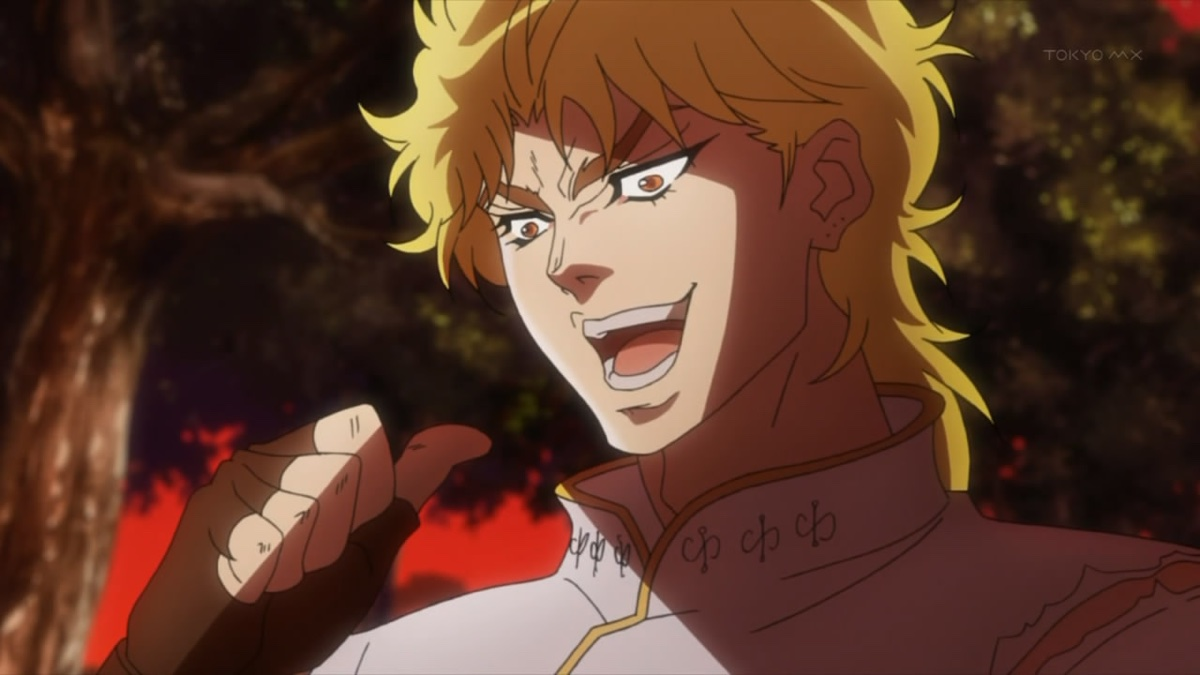
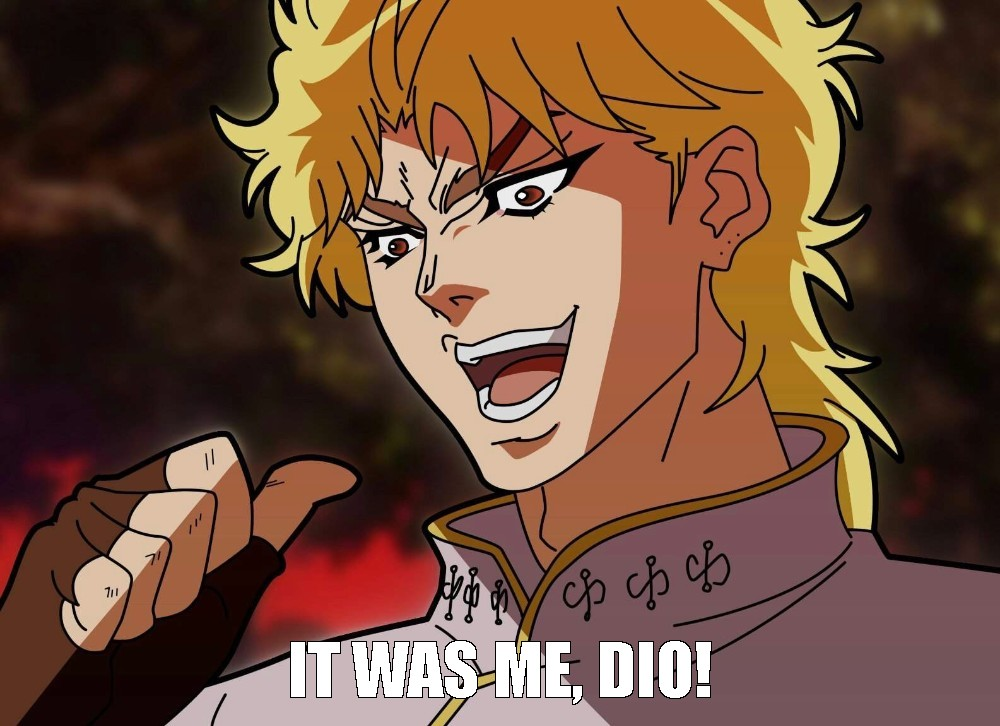
LiDAR post: better Dio meme

diff --git a/content/posts/lidar-localizer/index.md b/content/posts/lidar-localizer/index.md
@@ -178,9 +178,9 @@ The first results looked excellent. Suspiciously excellent. The open yard, a nea
 
 An empty yard should be hard. Something was handing the localizer the answer, and it wasn't anything in the yard.
 
-![Dio Brando from JoJo's Bizarre Adventure pointing at himself, grinning](blog_img/dio.jpg)
+![Dio Brando from JoJo's Bizarre Adventure pointing at himself, captioned "It was me, Dio!"](blog_img/dio.jpg)
 
-*Our scan renderer, the whole time*
+*You thought the localizer had gotten good*
 
 Our renderer cast the
 synthetic scans against the same point cloud that we then handed to the localizer
